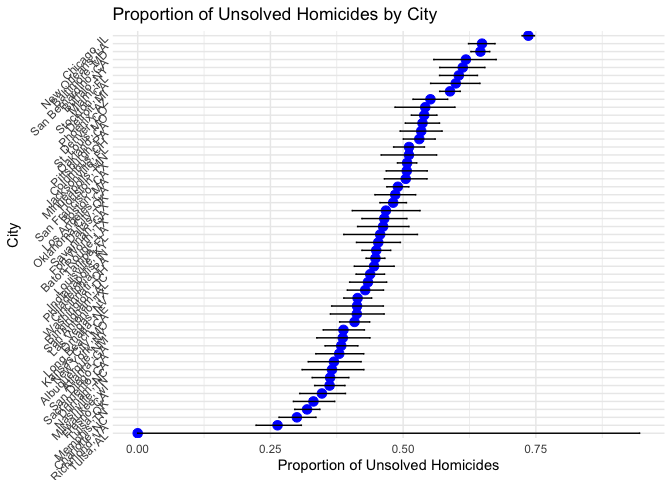
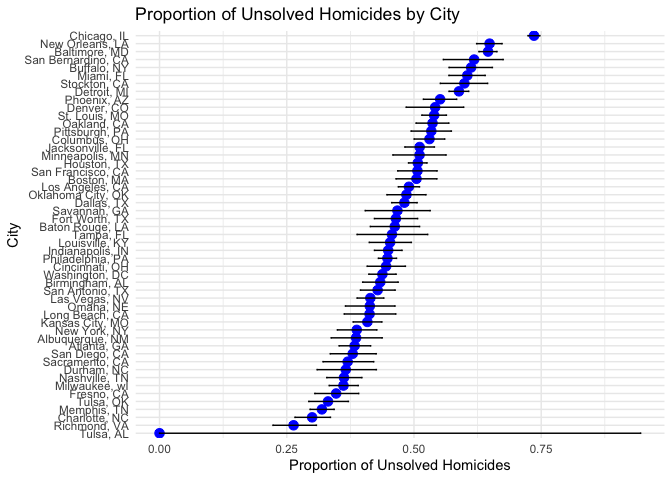
commit 5

diff --git a/p8105_hw5_sr4081.md b/p8105_hw5_sr4081.md
@@ -110,9 +110,10 @@ ggplot(final_results_df, aes(x = mu, y = power)) +
   theme_minimal()
 ```
 
-![](p8105_hw5_sr4081_files/figure-gfm/plot1-1.png)<!-- --> As the true
-value of mean increases, the power increases as well. This indicates how
-effect size and power are directly proportional.
+![](p8105_hw5_sr4081_files/figure-gfm/plot1-1.png)<!-- -->
+
+As the true value of mean increases, the power increases as well. This
+indicates how effect size and power are directly proportional.
 
 ``` r
 ggplot(final_results_df, aes (x = mu, y = avg_mu_hat)) + 
@@ -129,13 +130,14 @@ ggplot(final_results_df, aes (x = mu, y = avg_mu_hat)) +
   theme_minimal()
 ```
 
-![](p8105_hw5_sr4081_files/figure-gfm/plot2-1.png)<!-- --> The blue line
-refers to the average estimate of mean for all generated p-values; the
-estimates are close to the true mean. The red line refers to the average
-estimate of mean for p-values that rejected the null hypothesis. The
-sample average for the rejected null p-values is not approximately equal
-when the true mean is smaller because of the affect on effect size and
-power.
+![](p8105_hw5_sr4081_files/figure-gfm/plot2-1.png)<!-- -->
+
+The blue line refers to the average estimate of mean for all generated
+p-values; the estimates are close to the true mean. The red line refers
+to the average estimate of mean for p-values that rejected the null
+hypothesis. The sample average for the rejected null p-values is not
+approximately equal when the true mean is smaller because of the affect
+on effect size and power.
 
 ## Problem 3
 
@@ -227,8 +229,7 @@ ggplot(results, aes(x = reorder(city_state, estimate), y = estimate)) +
     y = "Proportion of Unsolved Homicides"
   ) +
   coord_flip() +  
-  theme_minimal() +
-  theme(axis.text.y = element_text(angle = 45, hjust = 1))  # Rotate x-axis labels for better fit
+  theme_minimal()
 ```
 
 ![](p8105_hw5_sr4081_files/figure-gfm/proptest-1.png)<!-- -->
